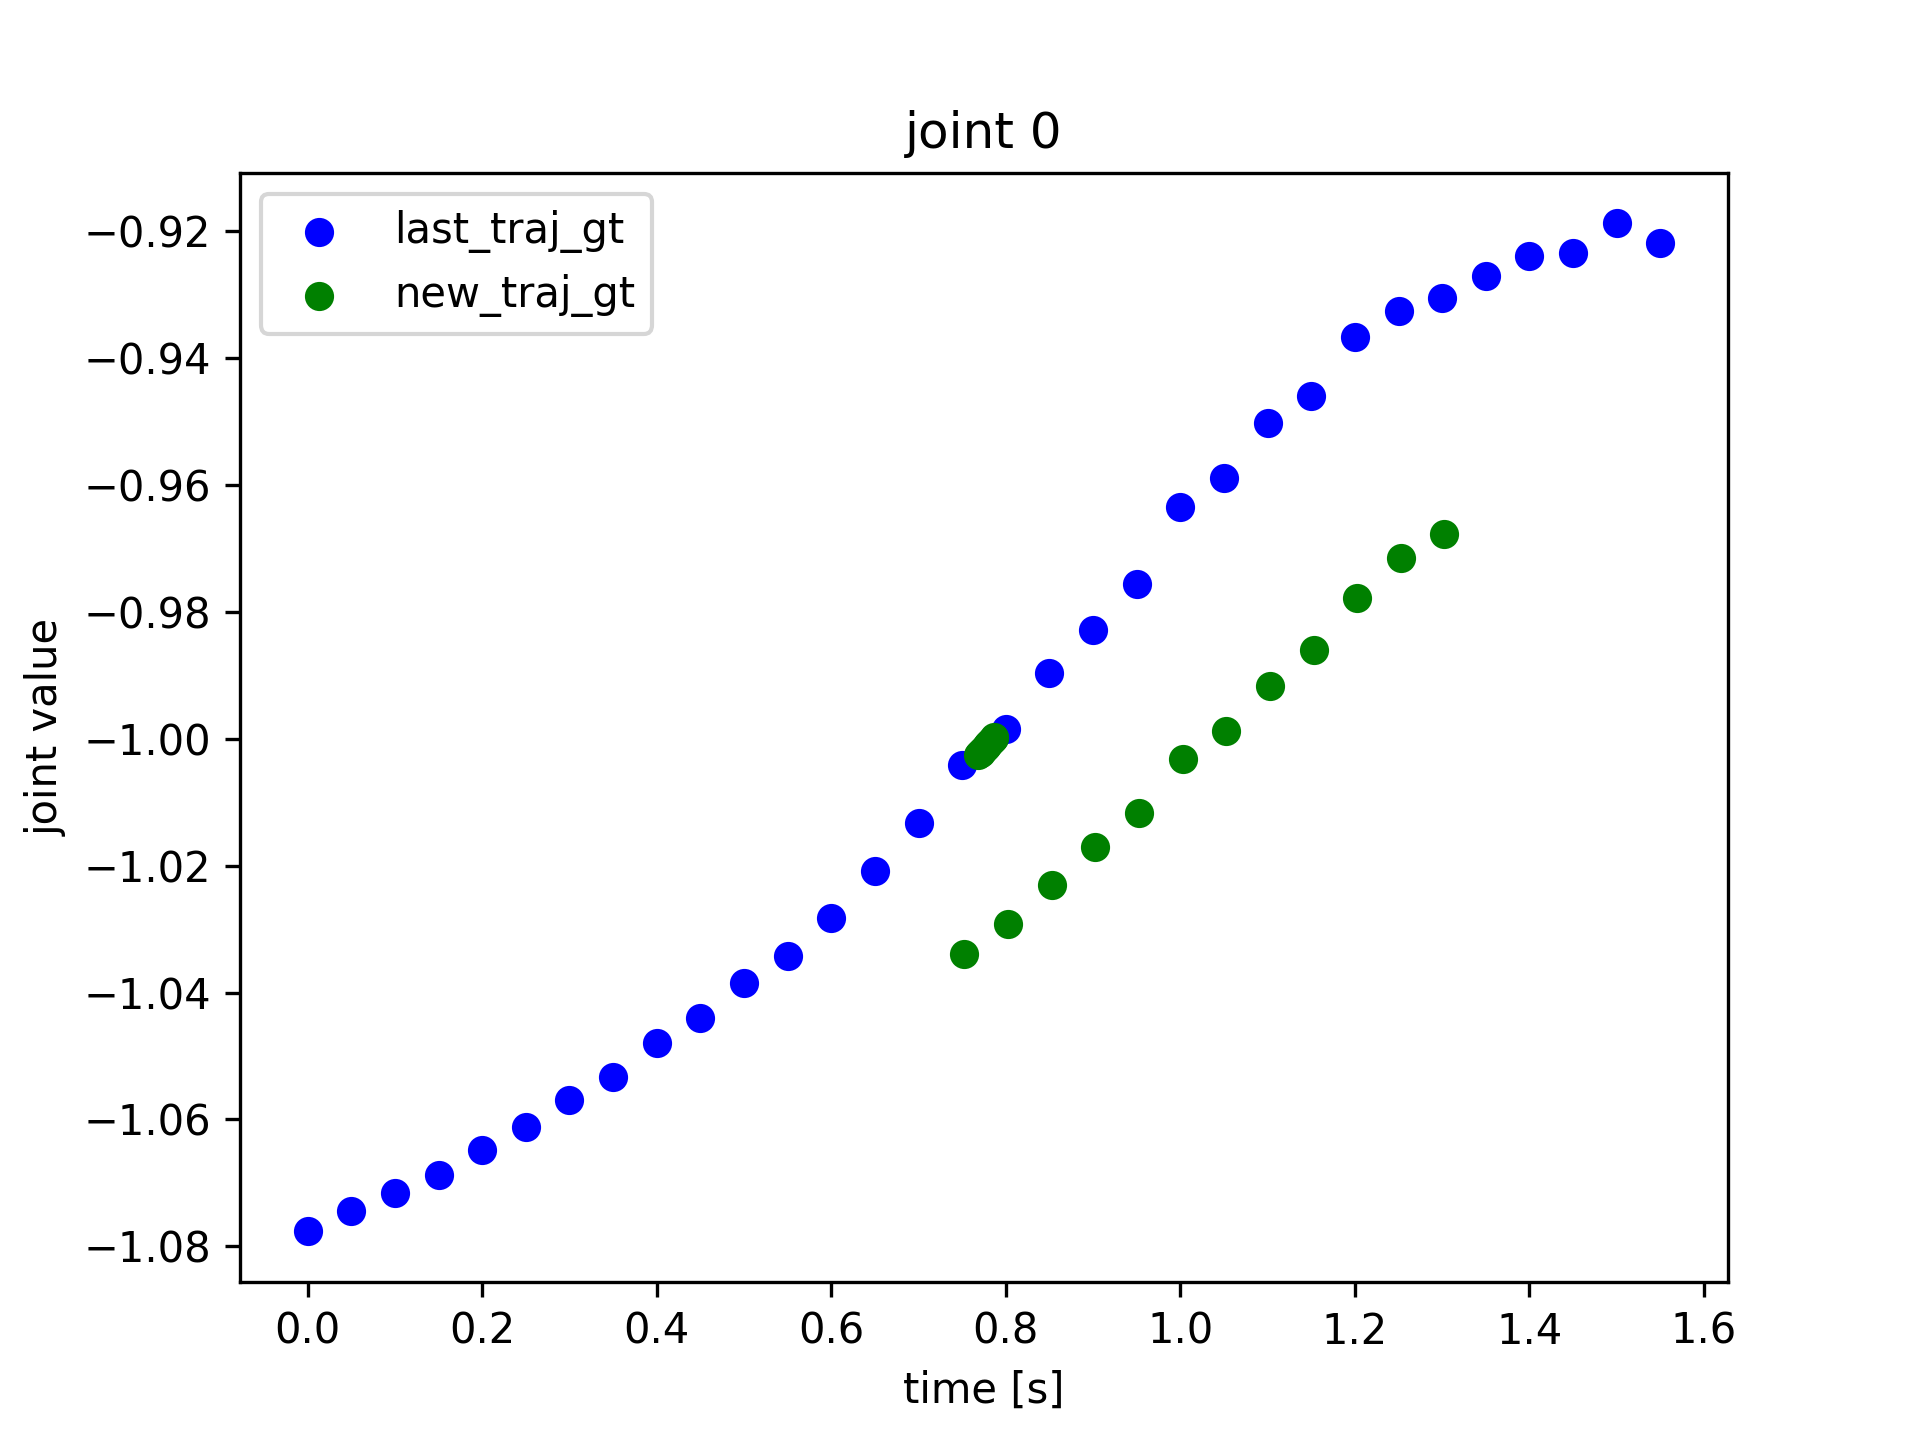
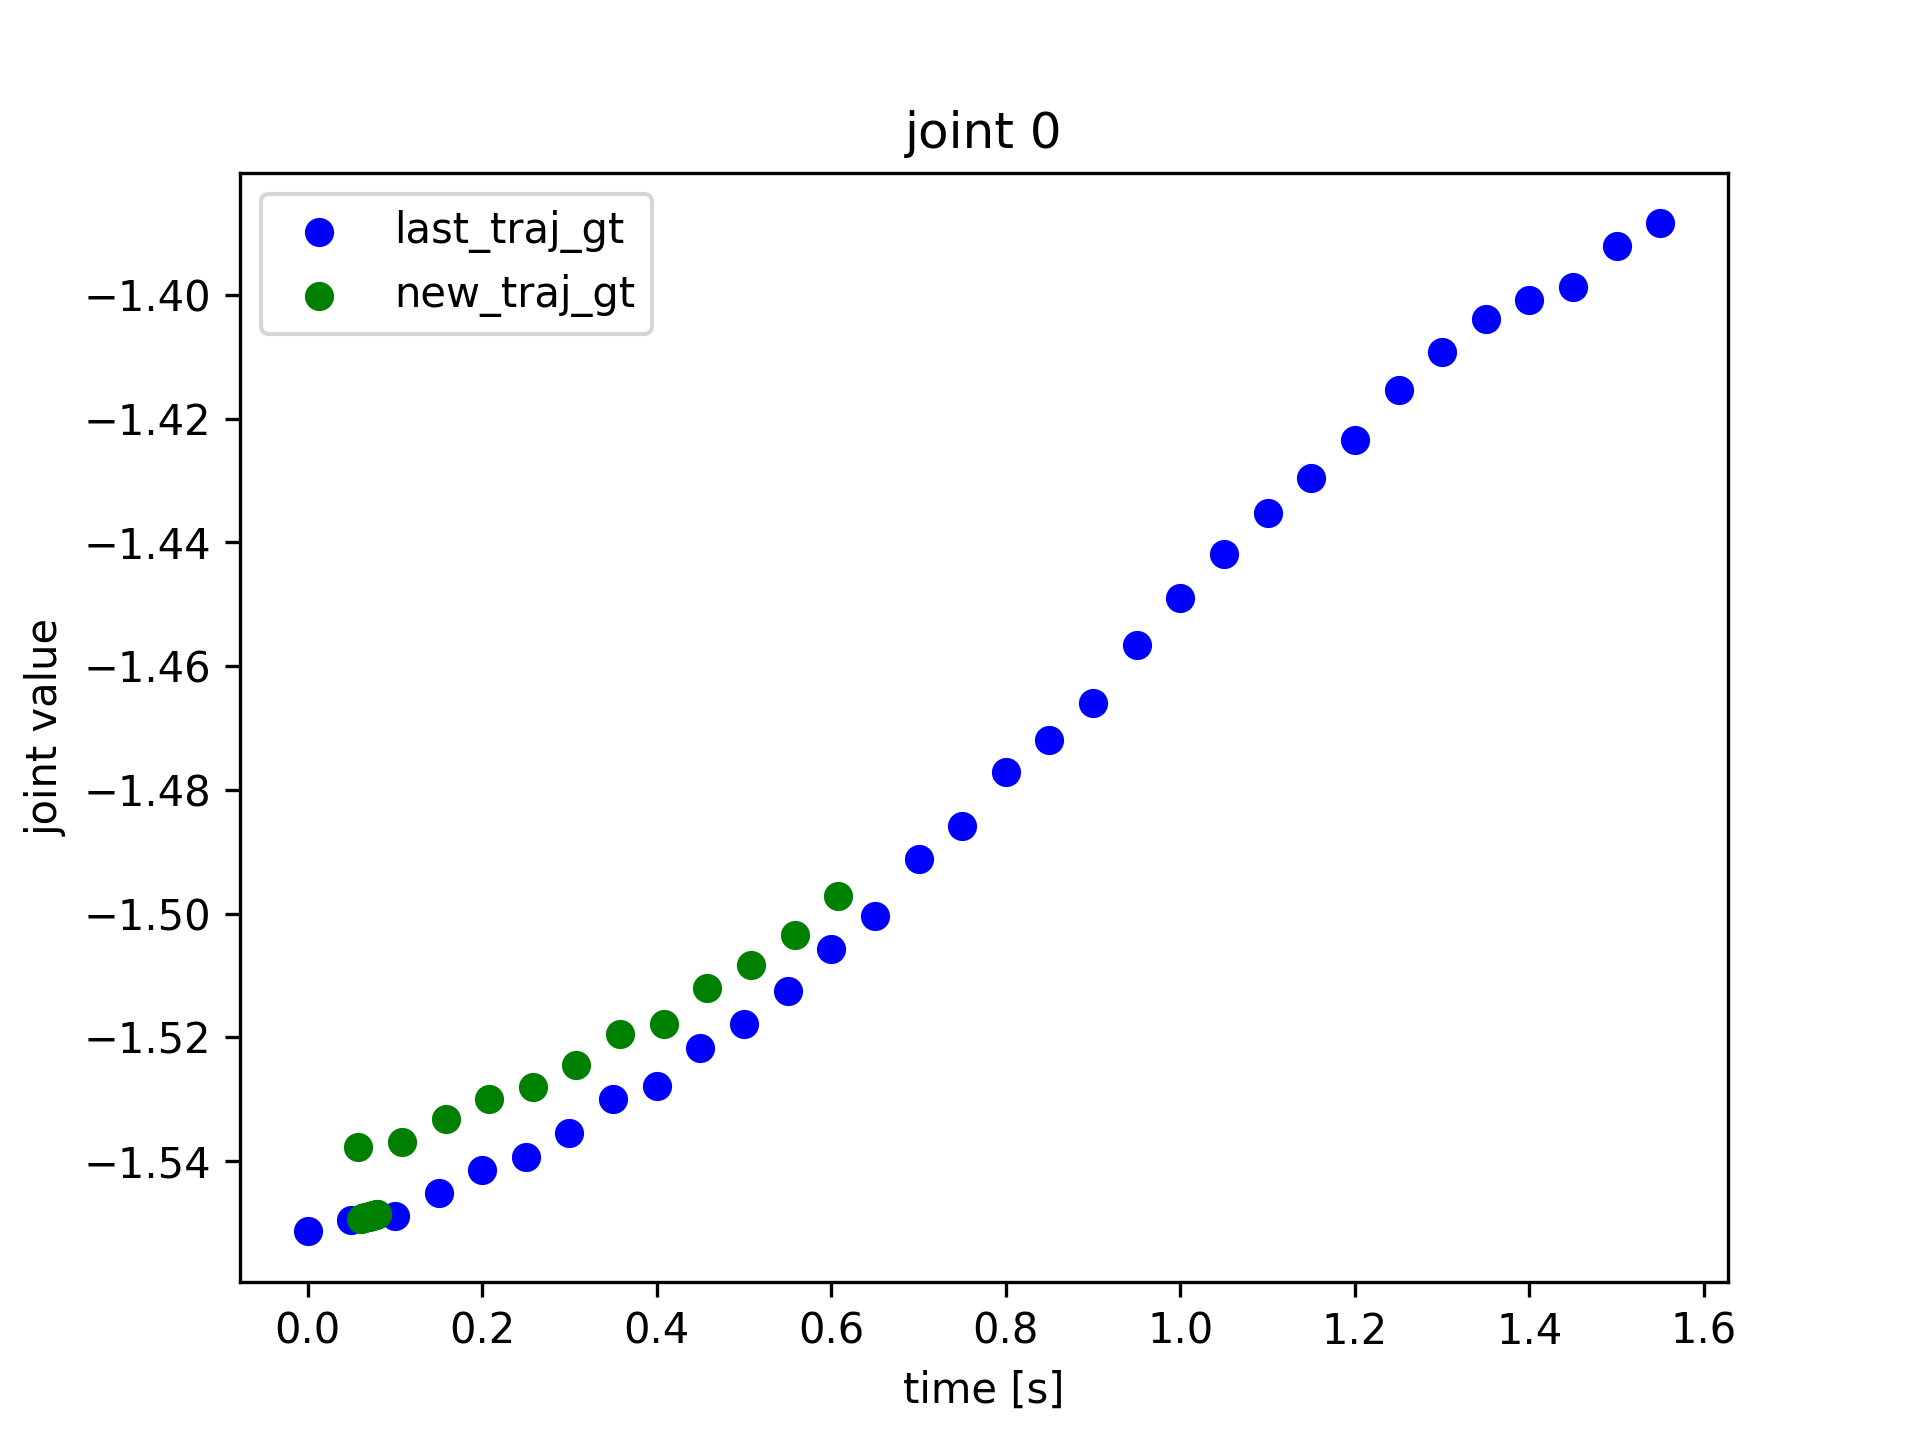
OCT add robot type in config

diff --git a/client/core/trajectory_generator.py b/client/core/trajectory_generator.py
@@ -173,31 +173,31 @@ class TrajectoryGenerator():
             traj_fitted_new = np.array(final_results)
             timestamps_fitted_new = np.arange(start_time, end_time, time_step)
 
-            joint_index = 0
-            # plot and save old and new traj
-            fig, ax = plt.subplots()
+            # joint_index = 0
+            # # plot and save old and new traj
+            # fig, ax = plt.subplots()
 
-            # 绘制旧轨迹
-            # ax.plot(self.timestamps_fitted, self.traj_fitted[joint_index, :], label='last_traj_ft', color='red', linestyle='-')
-            # ax.plot(self.timestamps, self.traj[joint_index, :], label='last_traj_gt', color='blue', linestyle='dotted')
-            ax.scatter(self.timestamps, self.traj[joint_index, :], label='last_traj_gt', color='blue')
+            # # 绘制旧轨迹
+            # # ax.plot(self.timestamps_fitted, self.traj_fitted[joint_index, :], label='last_traj_ft', color='red', linestyle='-')
+            # # ax.plot(self.timestamps, self.traj[joint_index, :], label='last_traj_gt', color='blue', linestyle='dotted')
+            # ax.scatter(self.timestamps, self.traj[joint_index, :], label='last_traj_gt', color='blue')
 
-            # 绘制新轨迹
-            # ax.plot(timestamps_fitted_new, traj_fitted_new[joint_index, :], label='new_traj_ft', color='red', linestyle='-')
-            # ax.plot(timestamps, action_chunk[joint_index, :], label='new_traj_gt', color='green', linestyle='dotted')
-            ax.scatter(timestamps, action_chunk[joint_index, :], label='new_traj_gt', color='green')
+            # # 绘制新轨迹
+            # # ax.plot(timestamps_fitted_new, traj_fitted_new[joint_index, :], label='new_traj_ft', color='red', linestyle='-')
+            # # ax.plot(timestamps, action_chunk[joint_index, :], label='new_traj_gt', color='green', linestyle='dotted')
+            # ax.scatter(timestamps, action_chunk[joint_index, :], label='new_traj_gt', color='green')
 
-            # 添加图例
-            ax.legend()
+            # # 添加图例
+            # ax.legend()
 
-            # 添加标题和标签
-            ax.set_title(f'joint {joint_index}')
-            ax.set_xlabel('time [s]')
-            ax.set_ylabel('joint value')
+            # # 添加标题和标签
+            # ax.set_title(f'joint {joint_index}')
+            # ax.set_xlabel('time [s]')
+            # ax.set_ylabel('joint value')
 
-            # 保存图片
-            plt.savefig(f'joint_{joint_index}_fitted_{self.frame}.png', dpi=300)
-            self.frame += 1
+            # # 保存图片
+            # plt.savefig(f'joint_{joint_index}_fitted_{self.frame}.png', dpi=300)
+            # self.frame += 1
 
             self.traj_fitted = traj_fitted_new
             self.timestamps_fitted = timestamps_fitted_new

diff --git a/client/core/realtime_data_manager.py b/client/core/realtime_data_manager.py
@@ -56,7 +56,7 @@ class RealtimeDataManager():
         # currt_timestamp = time.clock_gettime_ns(time.CLOCK_MONOTONIC)
         print(f'init_control_timestamp: {self.init_control_timestamp}')
         currt_time = time.time()
-        self.init_control_timestamp = self.init_control_timestamp + (currt_time - self.init_control_time) * 1e9
+        self.init_control_timestamp = self.init_control_timestamp + int((currt_time - self.init_control_time) * 1e9)
         self.init_control_time = currt_time
         print(f'init_control_timestamp updated: {self.init_control_timestamp}')
         self.update_control_time = True
@@ -124,7 +124,7 @@ class RealtimeDataManager():
                         self.timestamp_chunks.append(timestamp_chunk_new[candidate_index + index])
                 end_time = time.time()
         print(f'init_control_timestamp: {self.init_control_timestamp}, init_observe_timestamp: {self.init_observe_timestamp}')
-        rounded = [round(x, 2) for x in self.timestamp_chunks]
+        rounded = [round(x, 4) for x in self.timestamp_chunks]
         print(f'timestamp_chunks: {rounded}')
                 # print(f'动作融合花费时间: {(end_time - start_time) * 1000} ms')
 
@@ -244,12 +244,13 @@ class RealtimeDataManager():
         with self.polynomial_thread_lock:
             # 更新index
             if self.action_chunk_index is None:
-                self.action_chunk_index = -1
+                self.action_chunk_index = 0
             else:
+                print(f'action_chunk_index old: {self.action_chunk_index}')
                 currt_timestamp = self.timestamps_fitted[self.action_chunk_index]
                 action = self.action_chunk_fitted[:, self.action_chunk_index]
-                self.action_chunk_index = self.getClosestIndex(timestamps_fitted, currt_timestamp) - 1
-                print(f'action_chunk_index: {self.action_chunk_index}')
+                self.action_chunk_index = self.getClosestIndex(timestamps_fitted, currt_timestamp)
+                print(f'action_chunk_index new: {self.action_chunk_index}')
                 print(f'currt_timestamp: {currt_timestamp}, update_timestamp: {timestamps_fitted[self.action_chunk_index]}')
                 print(f'old action: {action}')
                 # self.action_chunk_index = offset

diff --git a/client/core/vla_client.py b/client/core/vla_client.py
@@ -83,7 +83,7 @@ class VLAClient():
             if self.inference_count == 0:
                 self.inferenceFirstTime()
                 # time.sleep(self.config.controller.wait_step * self.config.controller.control_period/1000)
-                time.sleep(0.5)
+                # time.sleep(0.5)
             # 第二次推理
             elif self.inference_count < 2:
                 self.inferenceStep()
@@ -196,9 +196,9 @@ class VLAClient():
         action = self.rdm.getActionFitted()
         # action, timestamp = self.rdm.popActionData()
         if action is not None:
-            pass
+            # pass
             # print(f'[{time.time()}]控制线程已启动...')
-            # self.robot.controlRobot(action)
+            self.robot.controlRobot(action)
             if self.config.show_data:
                 with self.show_thread_lock:
                     # show raw action chunk
@@ -360,7 +360,7 @@ class VLAClient():
             self.running = False
         self.observe_thread.join(timeout=1.0)
         self.inference_thread.join(timeout=1.0)
-        self.interpolate_thread.join(timeout=1.0)
+        # self.interpolate_thread.join(timeout=1.0)
         # self.control_thread.join(timeout=1.0)
         self.control_thread_timer.join(timeout=1.0)
         print('推理框架客户端已关闭。')
@@ -370,11 +370,13 @@ class VLAClient():
             self.running = False
         self.observe_thread.join(timeout=1.0)
         self.inference_thread.join(timeout=1.0)
-        self.interpolate_thread.join(timeout=1.0)
+        # self.interpolate_thread.join(timeout=1.0)
         # self.control_thread.join(timeout=1.0)
         self.control_thread_timer.join(timeout=1.0)
         self.zmq_client.close()
         self.traj_generator.close()
+        print('推理框架客户端已关闭。')
+
     def updateVisualization(self, frame):
         # 更新图表数据
         # print(f'updateVisualization: {frame}')

diff --git a/run_client.py b/run_client.py
@@ -1,7 +1,9 @@
 import time
 import matplotlib
+from ml_collections import ConfigDict
 from client.core import zmq_client
 from conf.config import get_client_config
+from conf.config import RobotType
 from client.robots.a2d import RobotA2D
 from client.robots.base import RobotBase
 from client.robots.mock_a2d import RobotA2DMock
@@ -10,16 +12,24 @@ from client.core.zmq_client import ZMQClient
 from client.core.trajectory_generator import TrajectoryGenerator
 from client.core.realtime_data_manager import RealtimeDataManager
 
+def get_robot(config: ConfigDict):
+    if config.robot == RobotType.A2D:
+        return RobotA2D(config.observer, config.controller)
+    elif config.robot == RobotType.MOCK:
+        repo_id = 'task_39_only1'
+        root = '/home/robot/Music/task_39_only1'
+        return RobotA2DMock(config.observer, config.controller, repo_id, root)
+    else:
+        raise ValueError(f'Invalid Robot Type: {config.robot}')
+    
 if __name__ == "__main__":
     config = get_client_config()
     if not config.show_data:
         matplotlib.use('Agg')
     # print(config)
     zmq_client = ZMQClient(config.zmq)
-    # robot = RobotA2D(config.observer, config.controller)
-    repo_id = 'task_39_only1'
-    root = '/home/robot/Music/task_39_only1'
-    robot = RobotA2DMock(config.observer, config.controller, repo_id, root)
+
+    robot = get_robot(config=config)
     rdm = RealtimeDataManager(config.rdm)
     traj_generator = TrajectoryGenerator(config=config.traj)
     vla_client = VLAClient(config=config, rdm=rdm, traj_generator=traj_generator, zmq_client=zmq_client, robot=robot)
@@ -30,5 +40,5 @@ if __name__ == "__main__":
         print("程序被中断")
     finally:
         # pass
-        robot.close()
         vla_client.close()
+        robot.close()

diff --git a/conf/config.py b/conf/config.py
@@ -6,6 +6,10 @@ class ModelType(str, Enum):
     ACT = 'act'
     GR00T = 'gr00t'
 
+class RobotType(str, Enum):
+    A2D = 'a2d'
+    MOCK = 'mock'
+
 def get_realtime_data_manager_config():
     """Generate config for RealtimeDataManager
 
@@ -27,7 +31,7 @@ def get_controller_config():
     """
     config = ConfigDict()
     config.wait_step = 4 # Time delay for robot controller, in milliseconds [ms]
-    config.control_period = 50 # Control period to control robot, in milliseconds [ms]
+    config.control_period = 100 # Control period to control robot, in milliseconds [ms]
     config.strategy = 'step' # Control strategy, choices = ('Step', 'realtime', 'fusion)
     return config
 
@@ -66,13 +70,14 @@ def get_client_config():
         ConfigDict: Configuration for Client.
     """
     config = ConfigDict()
+    config.robot = RobotType.MOCK
     config.rdm = get_realtime_data_manager_config()
     config.traj = get_trajectory_config()
     config.controller = get_controller_config()
     config.observer = get_observer_config()
     # config.zmq_addr = 'tcp://172.18.12.24:5566'  # server address and port
     config.zmq = get_zmq_config()
-    config.show_data = False # True to show data, False to not show data
+    config.show_data = True # True to show data, False to not show data
     config.traj_strategy = 'fitting' # Trajectory strategy, choices = ('fitting', 'interpolation')
     return config
 
@@ -98,5 +103,6 @@ def get_server_config():
     config.zmq = get_zmq_config()
     # MAIN_CLIENT_ID = 'ZROBOT'
     config.max_workers = 1  # 推理线程池最大工作线程数，1表示不支持并发推理
-    config.model = ModelType.ACT
+    # config.model = ModelType.ACT
+    config.model = ModelType.GR00T
     return config

diff --git a/client/robots/mock_a2d.py b/client/robots/mock_a2d.py
@@ -1,5 +1,6 @@
 import time
 import torch
+import random
 import lerobot
 import numpy as np
 # from collections import deque
@@ -51,7 +52,8 @@ class RobotA2DMock():
     #     print(max(list_time) - min(list_time), list_time)
 
     def controlRobot(self, action):
-        print(f'Mock control robot...')
+        if random.random() < 0.001:
+            print(f'Mock control robot...')
         # self.robot.move_arm(action[0:14].tolist())
         # self.robot.move_gripper(action[14:16].tolist())
         # action = data['pred_action']

diff --git a/client/robots/a2d.py b/client/robots/a2d.py
@@ -92,6 +92,7 @@ class RobotA2D():
     def close(self):
         self.camera.close()
         self.robot.shutdown()
+        print('close robot')
 
 if __name__ == '__main__':
     import sys
